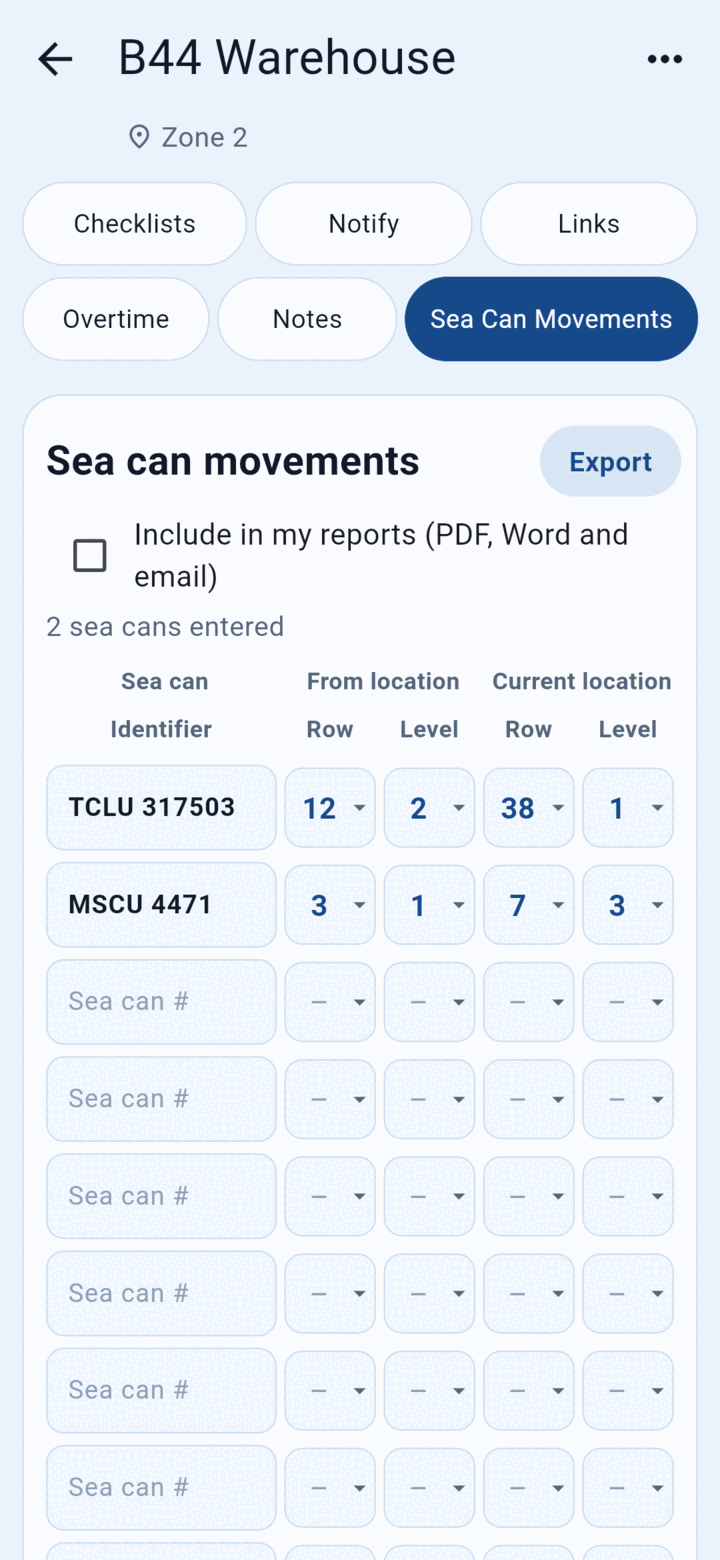
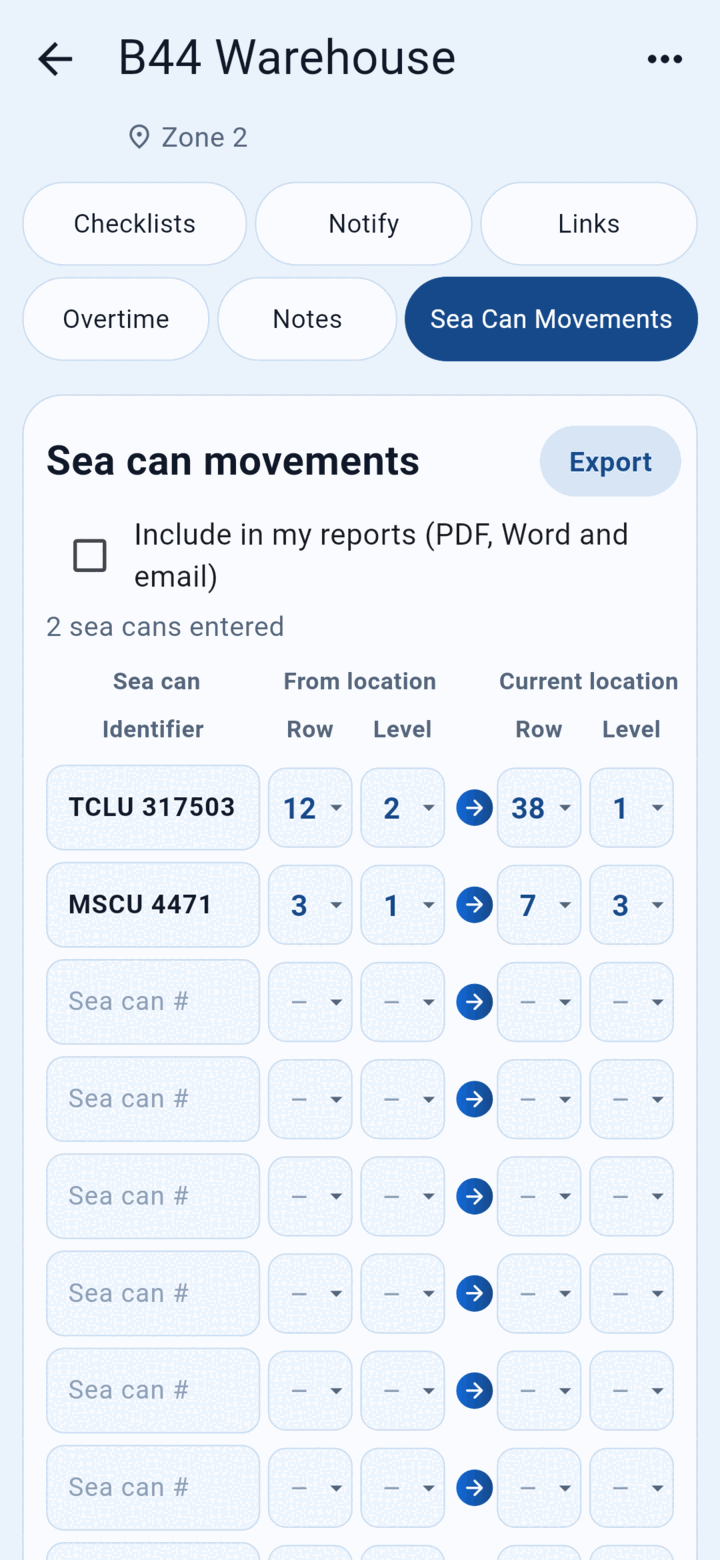
Sea Can Movements: blue arrow from From location to Current location on every line (both apps); manual updated; classic 4.13
Claude-Session: https://claude.ai/code/session_01SU9pkUf5APMbUYgKfLLGdu

diff --git a/mobile/lib/screens/seacan_pane.dart b/mobile/lib/screens/seacan_pane.dart
@@ -15,6 +15,9 @@ const seaCanStartLines = 20;
 const _blank = '–';
 const _canFlex = 24, _cellFlex = 10;
 
+/// Width of the arrow between From and Current location.
+const _arrowW = 24.0;
+
 /// Makes sure there are at least [seaCanStartLines] lines to type into.
 void prepareSeaCans(Project p) {
   while (p.seaCans.length < seaCanStartLines) {
@@ -153,16 +156,19 @@ class _SeaCanPaneState extends State<SeaCanPane> {
     },
   );
 
-  /// Sea can box, then four cells; [cells] has five widgets.
-  Widget _row(List<Widget> cells) => Padding(
+  /// Sea can box, then four cells; [cells] has five widgets. With [arrow], a blue arrow sits
+  /// between From and Current location ("came from here, went to here"); without, just the gap.
+  Widget _row(List<Widget> cells, {bool arrow = false}) => Padding(
     padding: const EdgeInsets.symmetric(vertical: 3),
     child: Row(
       children: [
-        for (var i = 0; i < cells.length; i++)
+        for (var i = 0; i < cells.length; i++) ...[
+          if (i == 3) arrow ? const _MoveArrow() : const SizedBox(width: _arrowW),
           Expanded(
             flex: i == 0 ? _canFlex : _cellFlex,
             child: Padding(padding: const EdgeInsets.only(right: 4), child: cells[i]),
           ),
+        ],
       ],
     ),
   );
@@ -181,7 +187,7 @@ class _SeaCanPaneState extends State<SeaCanPane> {
       _dropdown(seaCanLevels, m.fromLevel, (v) => m.fromLevel = v),
       _dropdown(seaCanRows, m.toRow, (v) => m.toRow = v),
       _dropdown(seaCanLevels, m.toLevel, (v) => m.toLevel = v),
-    ]),
+    ], arrow: true),
   );
 
   Widget _action(String s, Color color, VoidCallback onTap) => Align(
@@ -294,6 +300,7 @@ class _SeaCanPaneState extends State<SeaCanPane> {
                   children: [
                     Expanded(flex: _canFlex, child: _label('Sea can')),
                     Expanded(flex: _cellFlex * 2, child: _label('From location')),
+                    const SizedBox(width: _arrowW),
                     Expanded(flex: _cellFlex * 2, child: _label('Current location')),
                   ],
                 ),
@@ -349,4 +356,25 @@ class _SeaCanPaneState extends State<SeaCanPane> {
       },
     );
   }
+}
+
+/// The little arrow between From and Current location on each line.
+class _MoveArrow extends StatelessWidget {
+  const _MoveArrow();
+
+  @override
+  Widget build(BuildContext context) => SizedBox(
+    width: _arrowW,
+    child: Center(
+      child: Container(
+        width: 20,
+        height: 20,
+        decoration: const BoxDecoration(
+          shape: BoxShape.circle,
+          gradient: LinearGradient(colors: [C.blue, C.deepBlue]),
+        ),
+        child: const Icon(Icons.arrow_forward_rounded, size: 14, color: Colors.white, semanticLabel: 'moved to'),
+      ),
+    ),
+  );
 }

diff --git a/classic-android/app/src/main/java/com/dailyworklog/app/SeaCanPane.java b/classic-android/app/src/main/java/com/dailyworklog/app/SeaCanPane.java
@@ -84,11 +84,13 @@ final class SeaCanPane {
         LinearLayout head = row(a);
         head.addView(cellLabel(a, "Sea can"), weight(a, CAN_W));
         head.addView(cellLabel(a, "From location"), weight(a, 2f));
+        head.addView(new View(a), arrowLp(a));
         head.addView(cellLabel(a, "Current location"), weight(a, 2f));
         card.addView(head);
         LinearLayout sub = row(a);
         sub.addView(cellLabel(a, "Identifier"), weight(a, CAN_W));
         for (int i = 0; i < 2; i++) {
+            if (i == 1) sub.addView(new View(a), arrowLp(a));
             sub.addView(cellLabel(a, "Row"), weight(a, 1f));
             sub.addView(cellLabel(a, "Level"), weight(a, 1f));
         }
@@ -163,9 +165,37 @@ final class SeaCanPane {
         line.addView(can, weight(a, CAN_W));
         line.addView(dropdown(a, ROWS, m.fromRow, v -> { m.fromRow = v; store.save(); }), weight(a, 1f));
         line.addView(dropdown(a, LEVELS, m.fromLevel, v -> { m.fromLevel = v; store.save(); }), weight(a, 1f));
+        line.addView(arrow(a), arrowLp(a));
         line.addView(dropdown(a, ROWS, m.toRow, v -> { m.toRow = v; store.save(); }), weight(a, 1f));
         line.addView(dropdown(a, LEVELS, m.toLevel, v -> { m.toLevel = v; store.save(); }), weight(a, 1f));
         return line;
+    }
+
+    /** The little arrow between From and Current location: "came from here, went to here". */
+    private static View arrow(Activity a) {
+        TextView t = new TextView(a);
+        t.setText("\u2192");
+        t.setTextColor(0xFFFFFFFF);
+        t.setTextSize(13);
+        t.setTypeface(null, Typeface.BOLD);
+        t.setGravity(Gravity.CENTER);
+        t.setIncludeFontPadding(false);
+        android.graphics.drawable.GradientDrawable bg = new android.graphics.drawable.GradientDrawable(
+                android.graphics.drawable.GradientDrawable.Orientation.LEFT_RIGHT,
+                new int[]{a.getColor(R.color.blue), a.getColor(R.color.deep_blue)});
+        bg.setShape(android.graphics.drawable.GradientDrawable.OVAL);
+        t.setBackground(bg);
+        t.setContentDescription("moved to");
+        LinearLayout box = new LinearLayout(a);
+        box.setGravity(Gravity.CENTER);
+        box.addView(t, new LinearLayout.LayoutParams(Ui.dp(a, 20), Ui.dp(a, 20)));
+        return box;
+    }
+
+    private static LinearLayout.LayoutParams arrowLp(Activity a) {
+        LinearLayout.LayoutParams lp = new LinearLayout.LayoutParams(Ui.dp(a, 20), ViewGroup.LayoutParams.WRAP_CONTENT);
+        lp.setMarginEnd(Ui.dp(a, 4));
+        return lp;
     }
 
     interface Pick {
